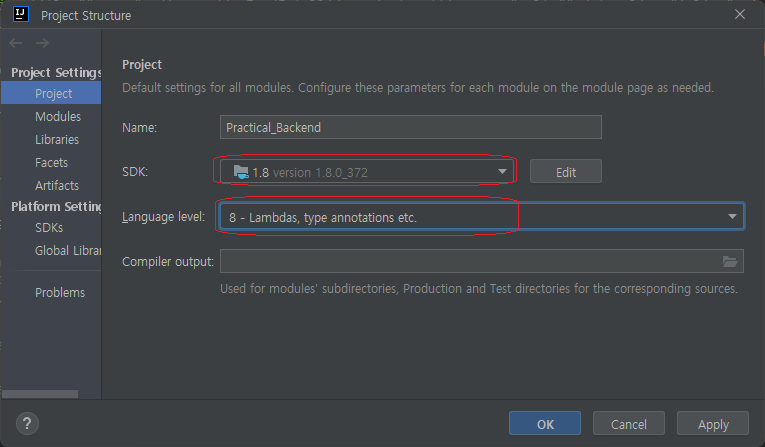
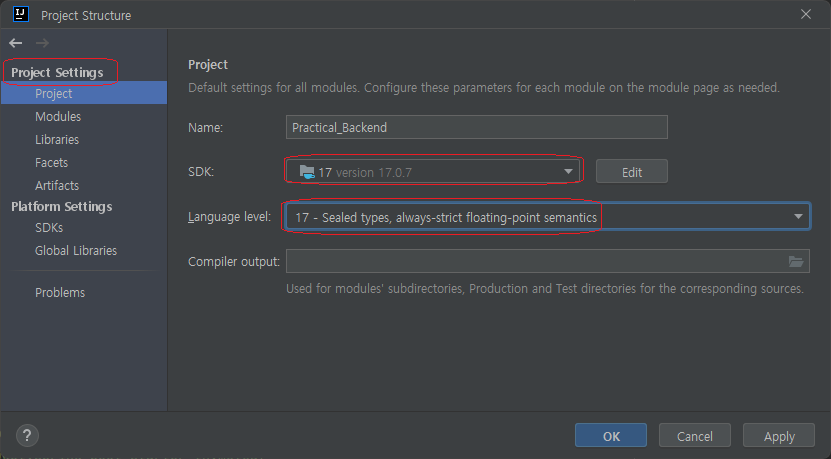
1) java version 변경 : 1.8 => 17

diff --git a/doc/wiki/devEnv/intellij-env.md b/doc/wiki/devEnv/intellij-env.md
@@ -8,9 +8,9 @@
 >| <img title="" src="../images/devEnv/Intellij-project-structure.png" alt="" data-align="inline"> |
 >|:-----------------------------------------------------------------------------------------------:|
 >|                        < 그림 1.1.1.-1 : Project Settings - SDK version >                         |
->- SDK : 1.8
+>- SDK : 17
 >
->- Language level : 8 - Lambdas, type annotations etc.
+>- Language level : 17 - Sealed types, always-strict floating-point semantics
 
 
 - `Menu > File > Settings`에서 Gradle환경을 설정한다.
@@ -22,7 +22,7 @@
 >|                                  < 그림 1.1.1-2 : Gradle 설정 >                                   |
 >- Gradle user home : gradle home 디렉토리를 설정한다.
 >
->- Gradle JVM : 설치한 java를 선택한다.
+>- Gradle JVM : 설치한 java를 선택한다(Ver 17).
 
 
 
@@ -31,7 +31,7 @@
 >| <img title="" src="../images/devEnv/intellij-settings-java.png" alt="" data-align="inline"> |
 >|:-------------------------------------------------------------------------------------------:|
 >|                              < 그림 1.1.1-3 : Java Compiler 설정 >                              |
->- Project bytecode version : 1.8
+>- Project bytecode version : 17(설치한 Java Version)
 
 
 - java vm 한글 설정을 위해 아래의 파일(*.vmoptions)을 수정한다.
